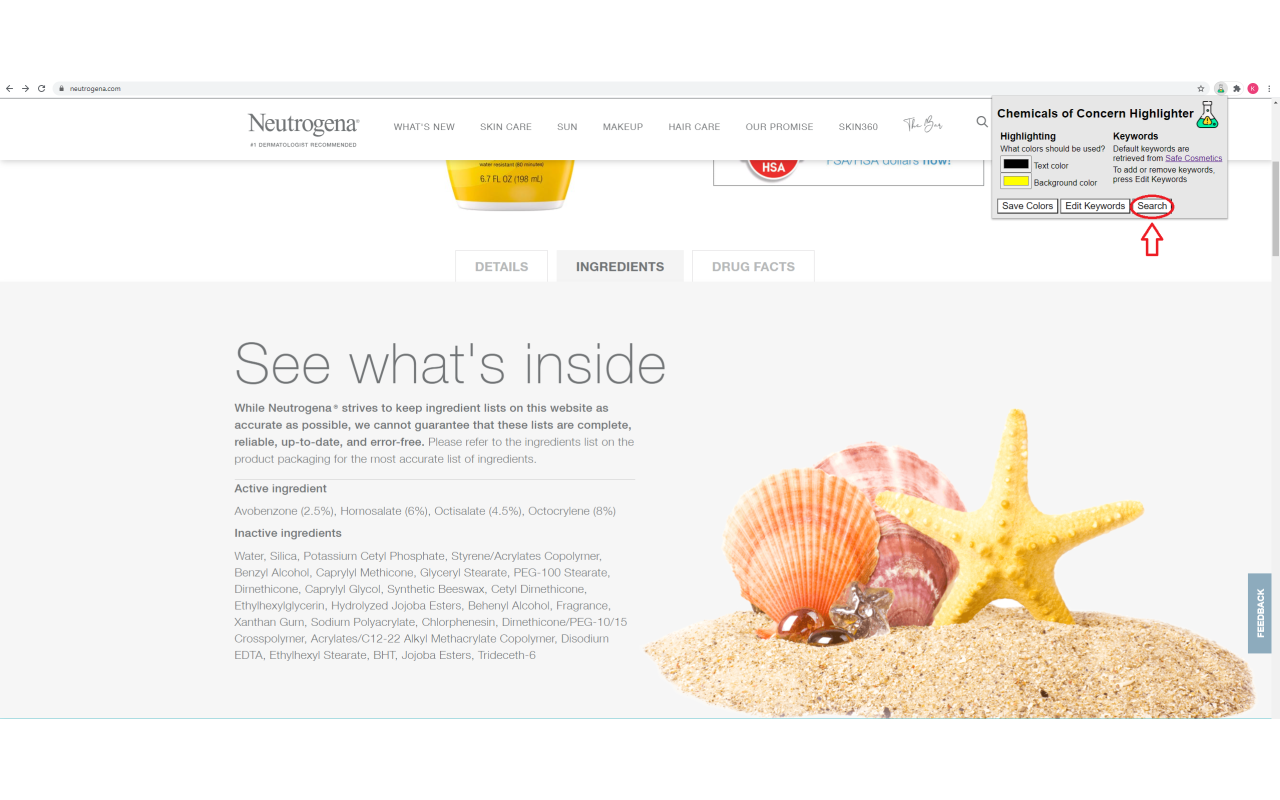
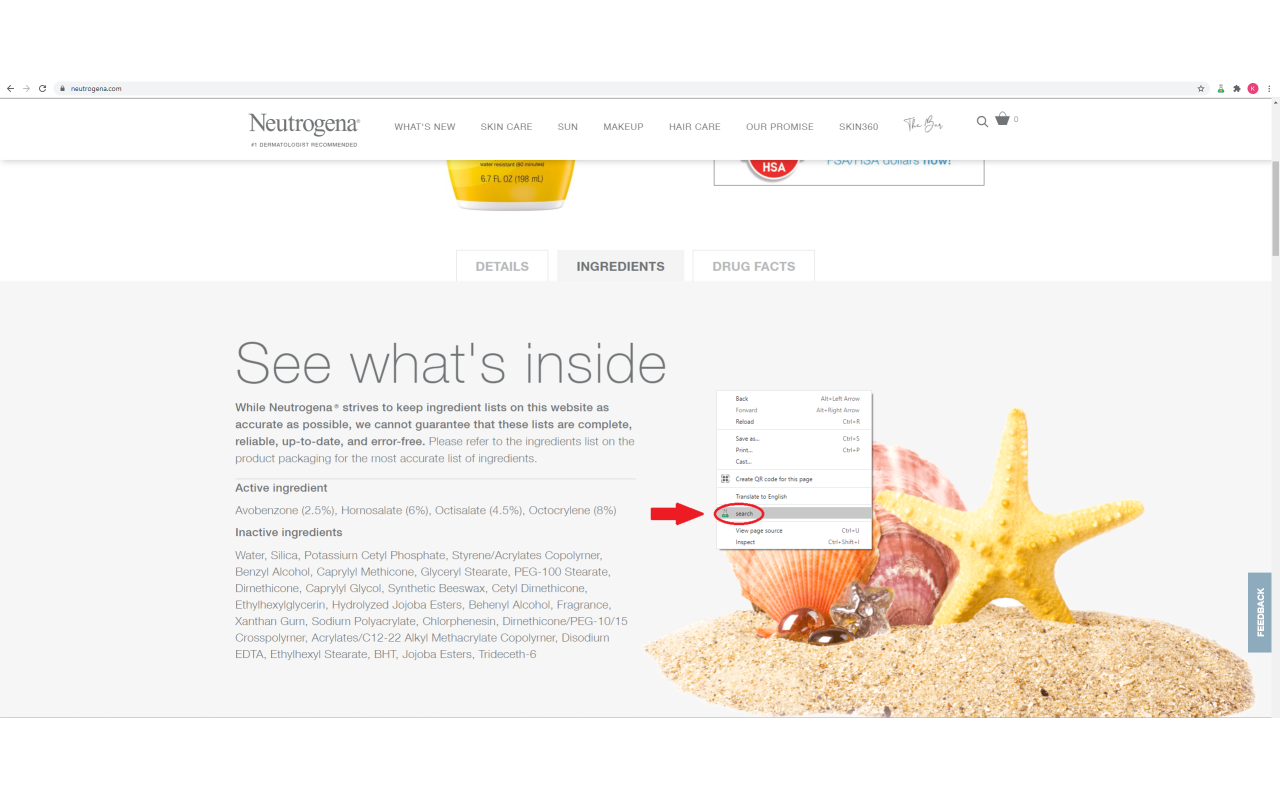
Changed from tabs to activeTab

diff --git a/src/background.js b/src/background.js
@@ -10,26 +10,30 @@ chrome.runtime.onInstalled.addListener(function(details) {
 var chemArray = [['Sodium laureth sulfate', 0], ['PEG compounds', 0], ['xynol', 0], ['ceteareth', 0], ['oleth', 0], ['Acrylic acid ethyl ester', 1], ['ethyl propenoate', 1], ['EA', 1], ['ethyl methacrylate', 1], ['ethyl ester', 1], ['methacrylic acid', 1], ['ethyl 2-methyl-2-propenoate', 1], ['EMA', 1], ['Methacrylate monomer', 1], ['Methyl ester of methacrylic acid', 1], ['methyl-2-methyl-2-propenoate', 1], ['MMA', 1], ['BHA', 3], ['BHT', 3], ['Carbon black', 4], ['D & C Black No. 2', 4], ['acetylene black', 4], ['channel black', 4], ['furnace black', 4], ['lamp black', 4], ['thermal black', 4], ['Coal tar solution', 6], ['tar', 6], ['coal', 6], ['carbo-cort', 6], ['coal tar solution USP', 6], ['crude coal tar', 6], ['estar', 6], ['impervotar', 6], ['KC 261', 6], ['lavatar', 6], ['picis carbonis', 6], ['naphtha', 6], ['high solvent naphtha', 6], ['naphtha distillate', 6], ['benzin B70', 6], ['petroleum benzin', 6], ['Triethanolamine', 7], ['diethanolamine', 7], ['DEA', 7], ['TEA', 7], ['cocamide DEA', 7], ['cocamide MEA', 7], ['DEA-cetyl phosphate', 7], ['DEA oleth-3 phosphate', 7], ['lauramide DEA', 7], ['linoleamide MEA', 7], ['myristamide DEA', 7], ['oleamide DEA', 7], ['stearamide MEA', 7], ['TEA-lauryl sulfate', 7], ['PPG', 8], ['PEG', 8], ['polysorbate', 8], ['eth laureth', 8], ['steareth', 8], ['Formaldehyde', 9], ['quaternium-15', 9], ['DMDM hydantoin', 9], ['imidazolidinyl urea', 9], ['diazolidinyl urea', 9], ['polyoxymethylene urea', 9], ['sodium hydroxymethylglycinate', 9], ['2-bromo-2-nitropropane-1,3-diol', 9], ['bromopol', 9], ['glyoxal', 9], ['Fragrance', 10], ['perfume', 10], ['parfum', 10], ['essential oil blend', 10], ['aroma', 10], ['Homosalate', 11], ['Homomenthyl salicylate', 11], ['HMS', 11], ['HS', 11], ['3,3,5-trimethyl-cyclohexyl-salicylate', 11], ['Hydroquinone', 12], ['tocopheryl acetate', 12], ['Lead acetate', 13], ['chromium', 13], ['thimerosal', 13], ['hydrogenated cotton seed oil', 13], ['sodium hexametaphosphate', 13], ['Methylisothiazolinone', 14], ['MI', 14], ['2-methyl-4-isothiazoline-3-one', 14], ['Neolone 950 preservative', 14], ['OriStar MIT', 14], ['Microcare M', 14], ['ethylchloroisothiazolinone', 14], ['CMI', 14], ['5-Chloro-2-methyl-4-isothiazolin-3-one', 14], ['MCI', 14], ['Mica', 15], ['muscovite', 15], ['Isopropyl Aceton', 16], ['Methyl isobutyl ketone', 16], ['MIBK', 16], ['hexone', 16], ['2-pentanone', 16], ['Methyl Ethyl Ketone', 16], ['ME', 16], ['2-butanone', 16], ['3-butanone', 16], ['acetone', 16], ['N-Methyl-Pyrrolidone', 16], ['NM', 16], ['n-methyl-2-pyrrolidone', 16], ['1-methyl-2-pyrrolidone', 16], ['Fullerenes', 17], ['micronized zinc oxide', 17], ['nano zinc oxide', 17], ['micronized titanium dioxide', 17], ['micronized quartz silica', 17], ['nitrosamines', 18], ['Octinoxate', 19], ['o methoxycinnamate', 19], ['OMC', 19], ['parsol', 19], ['parsol MCX', 19], ['parsol MOX', 19], ['escalol', 19], ['2-ethylhexyl p-methoxycinnamate', 19], ['Ethylparaben', 20], ['butylparaben', 20], ['methylparaben', 20], ['propylparaben', 20], ['isobutylparaben', 20], ['isopropylparaben', 20], ['paraben', 20], ['PABA', 21], ['OD-PABA', 21], ['padimate O', 21], ['4-aminobenzoic acid', 21], ['para-aminobenzoic acid', 21], ['p-aminobenzoic acid', 21], ['Et-PABA', 21], ['2-ethylhexyl ester', 21], ['p-carboxyaniline', 21], ['Petrolatum', 22], ['Petroleum Jelly', 22], ['Paraffin Oil', 22], ['Mineral Oil', 22], ['White Petrolatum', 22], ['Phenoxyethanol', 23], ['2-Phenoxyethanol', 23], ['Euxyl K 400', 23], ['1,2-dibromo-2,4-dicyanobutane', 23], ['PhE', 23], ['Polyacrylamide', 24], ['acrylamide', 24], ['polyacrylate', 24], ['polyquaternium', 24], ['acrylate', 24], ['p-phenylenediamine', 26], ['para-phenylenediamine', 26], ['4-aminoaniline', 26], ['1,4-benzenediamine', 26], ['p-diaminobenzene', 26], ['1,4-diaminobenzene', 26], ['1,4-phenylene diamine', 26], ['glyoxa', 27], ['thylparaben,', 27], ['phthalate', 28], ['DEP', 28], ['DBP', 28], ['DEHP', 28], ['Benzalkonium chloride', 29], ['benzethonium chloride', 29], ['centrimonium bromide', 29], ['polyquaternium-7', 29], ['Styrene', 30], ['acrylates copolymer', 30], ['styrene butadiene copolymer', 30], ['polystyrene', 30], ['styrene copolymer', 30], ['styrene resin', 30], ['ethylbenzene', 30], ['vinylbenzene', 30], ['Resorcinol', 32], ['1,3-benzenediol', 32], ['resorcin', 32], ['1,3-dihydroxybenzene', 32], ['m-hydroxybenze', 32], ['m-dihydroxyphenol', 32], ['musk ketone', 34], ['musk xylene', 34], ['galaxolide', 34], ['tonalide', 34], ['Talcum powder', 35], ['cosmetic talc', 35], ['Titanium dioxide', 36], ['TiO2', 36], ['Toluene', 37], ['Triclosan', 38], ['TSC', 38], ['triclocarban', 38], ['TCC', 38]];
 var chemUrls = ['http://www.safecosmetics.org/get-the-facts/chemicals-of-concern/14-dioxane/', 'http://www.safecosmetics.org/get-the-facts/chemicals-of-concern/2978/', 'http://www.safecosmetics.org/get-the-facts/chemicals-of-concern/benzophenone/', 'http://www.safecosmetics.org/get-the-facts/chemicals-of-concern/butylated-compounds/', 'http://www.safecosmetics.org/get-the-facts/chemicals-of-concern/carbon-black/', 'http://www.safecosmetics.org/get-the-facts/chemicals-of-concern/known-carcinogens/', 'http://www.safecosmetics.org/get-the-facts/chemicals-of-concern/coal-tar/', 'http://www.safecosmetics.org/get-the-facts/chemicals-of-concern/ethanolamine-compounds/', 'http://www.safecosmetics.org/get-the-facts/chemicals-of-concern/ethoxylated-ingredients/', 'http://www.safecosmetics.org/get-the-facts/chemicals-of-concern/formaldehyde/', 'http://www.safecosmetics.org/get-the-facts/chemicals-of-concern/fragrance/', 'http://www.safecosmetics.org/get-the-facts/chemicals-of-concern/homosalate/', 'http://www.safecosmetics.org/get-the-facts/chemicals-of-concern/hydroquinone/', 'http://www.safecosmetics.org/get-the-facts/chemicals-of-concern/lead-and-other-heavy-metals/', 'http://www.safecosmetics.org/get-the-facts/chemicals-of-concern/methylisothiazolinone/', 'http://www.safecosmetics.org/get-the-facts/chemicals-of-concern/mica/', 'http://www.safecosmetics.org/get-the-facts/chemicals-of-concern/nail-polish-removers/', 'http://www.safecosmetics.org/get-the-facts/chemicals-of-concern/engineered-nanomaterialsnanotechnology/', 'http://www.safecosmetics.org/get-the-facts/chemicals-of-concern/nitrosamines/', 'http://www.safecosmetics.org/get-the-facts/chemicals-of-concern/octinoxate/', 'http://www.safecosmetics.org/get-the-facts/chemicals-of-concern/parabens/', 'http://www.safecosmetics.org/get-the-facts/chemicals-of-concern/paba/', 'http://www.safecosmetics.org/get-the-facts/chemicals-of-concern/petrolatum/', 'http://www.safecosmetics.org/get-the-facts/chemicals-of-concern/phenoxyethanol/', 'http://www.safecosmetics.org/get-the-facts/chemicals-of-concern/polyacrylamide-2/', 'http://www.safecosmetics.org/get-the-facts/chemicals-of-concern/polytetrafluoroethylene/', 'http://www.safecosmetics.org/get-the-facts/chemicals-of-concern/p-phenylenediamine/', 'http://www.safecosmetics.org/get-the-facts/chemicals-of-concern/preservatives/', 'http://www.safecosmetics.org/get-the-facts/chemicals-of-concern/phthalates/', 'http://www.safecosmetics.org/get-the-facts/chemicals-of-concern/quaternium-15/', 'http://www.safecosmetics.org/get-the-facts/chemicals-of-concern/styrene-acrylates-copolymer/', 'http://www.safecosmetics.org/get-the-facts/chemicals-of-concern/red-list/', 'http://www.safecosmetics.org/get-the-facts/chemicals-of-concern/resorcinol/', 'http://www.safecosmetics.org/get-the-facts/chemicals-of-concern/retinol-and-retinol-compounds/', 'http://www.safecosmetics.org/get-the-facts/chemicals-of-concern/synthetic-musks/', 'http://www.safecosmetics.org/get-the-facts/chemicals-of-concern/talc/', 'http://www.safecosmetics.org/get-the-facts/chemicals-of-concern/titanium-dioxide-2/', 'http://www.safecosmetics.org/get-the-facts/chemicals-of-concern/toluene/', 'http://www.safecosmetics.org/get-the-facts/chemicals-of-concern/triclosan/'];
 
-chrome.runtime.onMessage.addListener(function(request, sender, sendResponse) {
-	if ("getChemicals" == request.message) {
-		if ("undefined" != typeof localStorage) {
-			chrome.tabs.query({
-					"active": true,
-					"currentWindow": true
-				},
-				function(tabs) {
-					if ("undefined" != typeof tabs[0].id && tabs[0].id) {
-						chrome.tabs.sendMessage(tabs[0].id, {
-							"message": "returnChemicals",
-							"remove": request.remove,
-							"keywords": localStorage.getItem("chemicals"),
-							"urls": localStorage.getItem("urls"),
-							"foreground": localStorage.getItem("foreground") || "#000000",
-							"background": localStorage.getItem("background") || "#ffff00"
-						});
-					}
-				}
-			);
-		}
-	}
+chrome.contextMenus.create({
+	"title": "search",
+	"contexts": ["page"],
+	"onclick": getChemicals
 });
+
+function getChemicals() {
+	if ("undefined" != typeof localStorage) {
+		chrome.tabs.query({
+				"active": true,
+				"currentWindow": true
+			},
+			function(tabs) {
+				if ("undefined" != typeof tabs[0].id && tabs[0].id) {
+					chrome.tabs.sendMessage(tabs[0].id, {
+						"message": "returnChemicals",
+						"remove": true,
+						"keywords": localStorage.getItem("chemicals"),
+						"urls": localStorage.getItem("urls"),
+						"foreground": localStorage.getItem("foreground") || "#000000",
+						"background": localStorage.getItem("background") || "#ffff00"
+					});
+				}
+			}
+		);
+	}
+};

diff --git a/src/popup.html b/src/popup.html
@@ -14,17 +14,27 @@
                 <h3>Highlighting</h3>
                 <p>What colors should be used?</p>
                 <div><input id="colorForeground" type="color"/><label for="colorForeground"> Text color</label></div>
-                <div><input id="colorBackground" type="color"/><label for="colorBackground"> Background color</label></div>
             </div>
             <div class="column column-popup">
                 <h3>Keywords</h3>
                 <p>Default keywords are retrieved from <a href=http://www.safecosmetics.org/>Safe Cosmetics</a></p>
+            </div>
+        </div>
+        <div class = "row">
+            <div class="column column-popup">
+                <div><input id="colorBackground" type="color"/><label for="colorBackground"> Background color</label></div>
+            </div>
+            <div class="column column-popup">
                 <p>To add or remove keywords, press Edit Keywords</p>
             </div>
         </div>
-        <em>&nbsp;</em>
-        <button id="buttonSave" type="submit">Save Colors</button>
-        <button id="buttonOptions">Edit Keywords</button>
-        <button id="buttonSearch">Search</button>
+        <div class = "row">
+            <div class="column column-popup">
+                <button class="popupButton" id="buttonSave" type="submit">Save Colors</button>        
+            </div>
+            <div class="column column-popup">
+                <button class="popupButton" id="buttonOptions">Edit Keywords</button>
+            </div>
+        </div>                
     </body>
 </html>

diff --git a/src/popup.js b/src/popup.js
@@ -1,14 +1,6 @@
 document.addEventListener("DOMContentLoaded", function() {
     loadColors();
 
-    document.getElementById("buttonSearch").addEventListener("click", function() {
-        chrome.runtime.sendMessage({
-            "message": "getChemicals",
-            "remove": true
-        });
-        window.close();
-    });
-
 	document.getElementById("buttonSave").addEventListener("click", function() {
 		saveColors();
 		window.close();

diff --git a/src/common.css b/src/common.css
@@ -71,3 +71,7 @@ button {
     flex: 50%;
     padding-left: 5px;
 }
+
+input {
+    margin-bottom: 3px;
+}

diff --git a/readme.md b/readme.md
@@ -3,7 +3,7 @@
 Search ingredients, highlight chemicals of concern in cosmetics or skin care products and click the highlighted chemical to see the related document!
 
 ## Instruction
-In order to use, go to a website that shows ingredients of a product, click the extension icon to activate popup and click the search button. If you want to see more information about the chemical of concern, simply click the highlighted chemical to see the related documents on Safe Cometics.
+Go to a website that shows ingredients of a product, right click any empty space on the page and click the context menu "search" with the icon on the left. If you want to see more information about the chemical of concern, simply click the highlighted chemical to see the related documents on Safe Cometics.
 
 ### Screenshots
 <a href="https://github.com/gchoi17/highlight_harmful_chemicals/blob/master/screenshots/screenshot1.png?raw=true" target="_blank"><img src="https://github.com/gchoi17/highlight_harmful_chemicals/blob/master/screenshots/screenshot1.png?raw=true" width="200" border="0" /></a>
